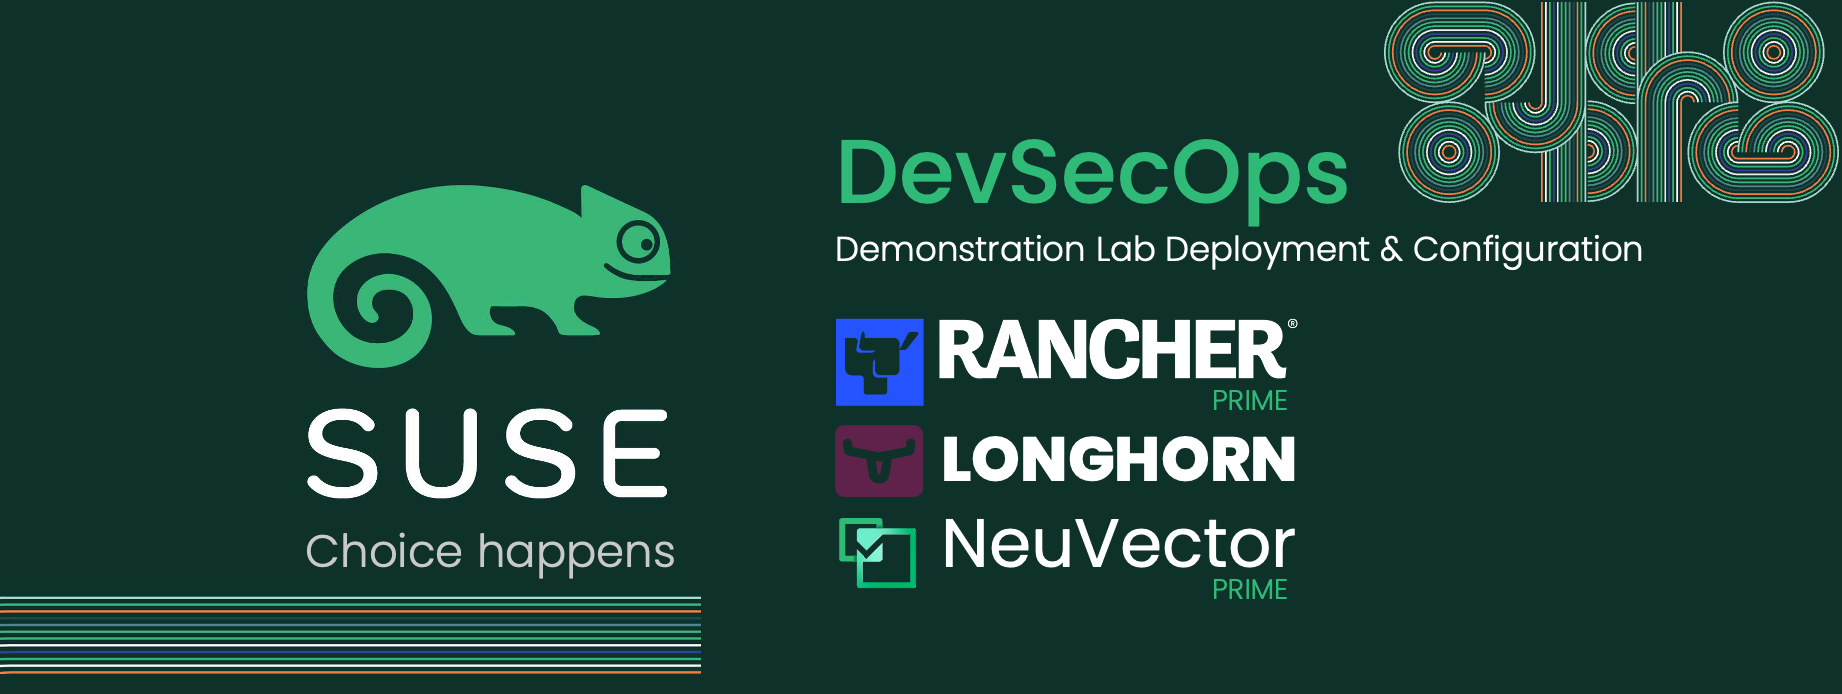
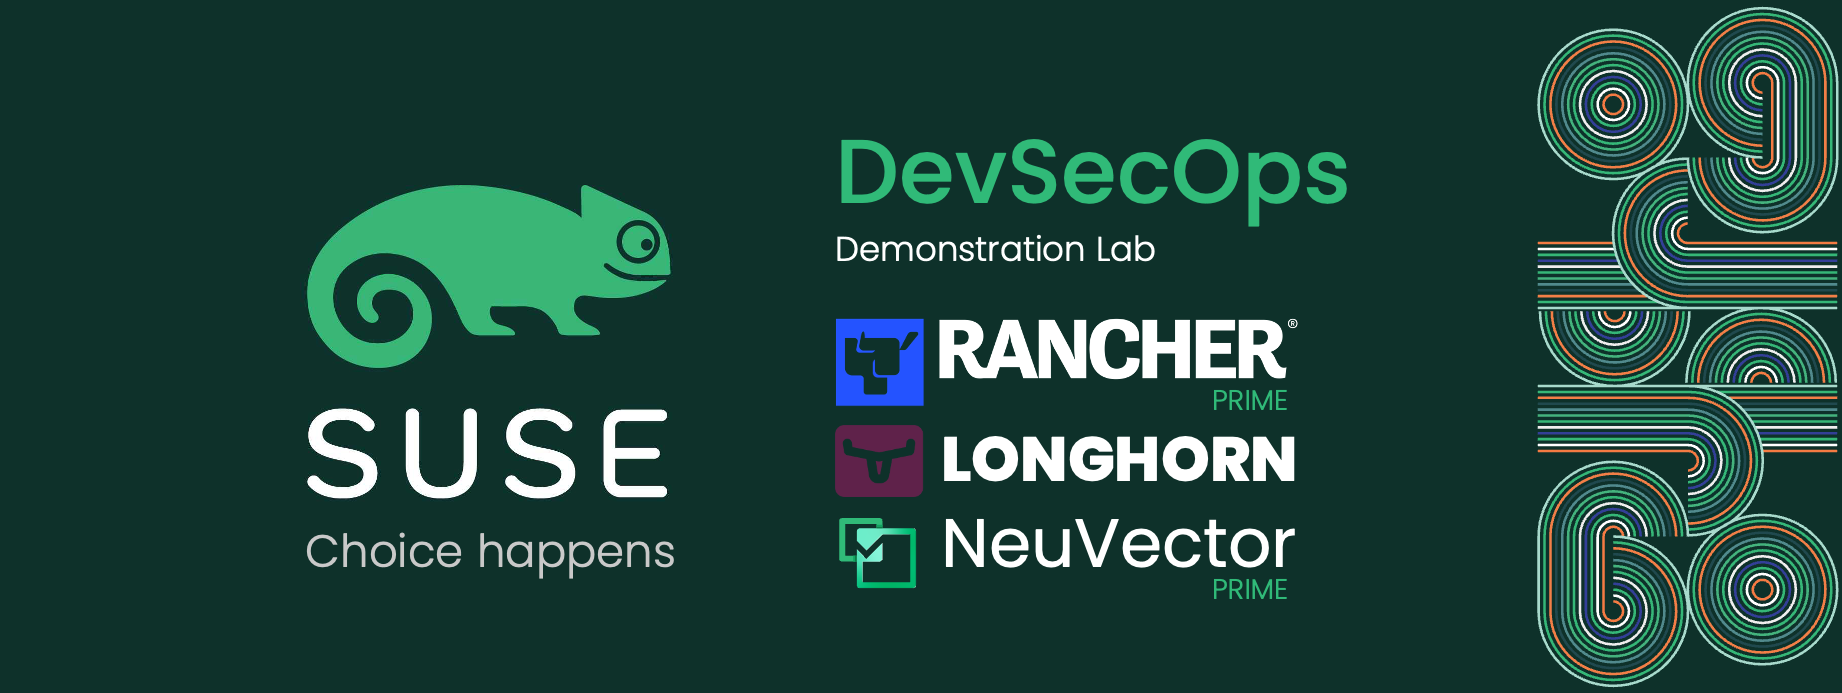
FC

diff --git a/README.md b/README.md
@@ -1,6 +1,6 @@
 # SUSE-DevSecOps-Demo-AWS
 
-**This GitHub repository is created to support mainly SUSE SA(s) in automatically build, deploy, install, & configure a lab environment on top of AWS cloud to be able to deliver a Demo or an Online Sessions to customers or prospects showing the features and capabilities of _SUSE_ DevSecOps solutions [_SUSE Rancher Prime_, _SUSE Longhorn_, _SUSE NeuVector Prime_]. It is also possible for any user that would like to test _SUSE_ Solution to use this GitHub repository as he/she see fit, However, _SUSE_ do not maintain this GitHub Repository and have no responsibilities for any code provided in this repository and it is highly recommended to refer to the official documentation.**
+_SUSE_ DevSecOps solutions [_SUSE Rancher Prime_, _SUSE Longhorn_, _SUSE NeuVector Prime_] Demonstration Lab Environment
 
 ---
 
@@ -9,3 +9,14 @@
 </p>
 
 ---
+
+## Repository Purposes
+
+This GitHub repository is created to support mainly SUSE SA(s) in automatically build, deploy, install, & configure a lab environment on top of AWS cloud to be able to deliver a Demo or an Online Sessions to customers or prospects showing the features and capabilities of _SUSE_ DevSecOps solutions [_SUSE Rancher Prime_, _SUSE Longhorn_, _SUSE NeuVector Prime_]. It is also possible for any user that would like to test _SUSE_ Solution to use this GitHub repository as he/she see fit, However, _SUSE_ do not maintain this GitHub Repository and have no responsibilities for any code provided in this repository and it is highly recommended to refer to the official documentation.
+
+---
+
+## Disclaimer
+
+---
+
